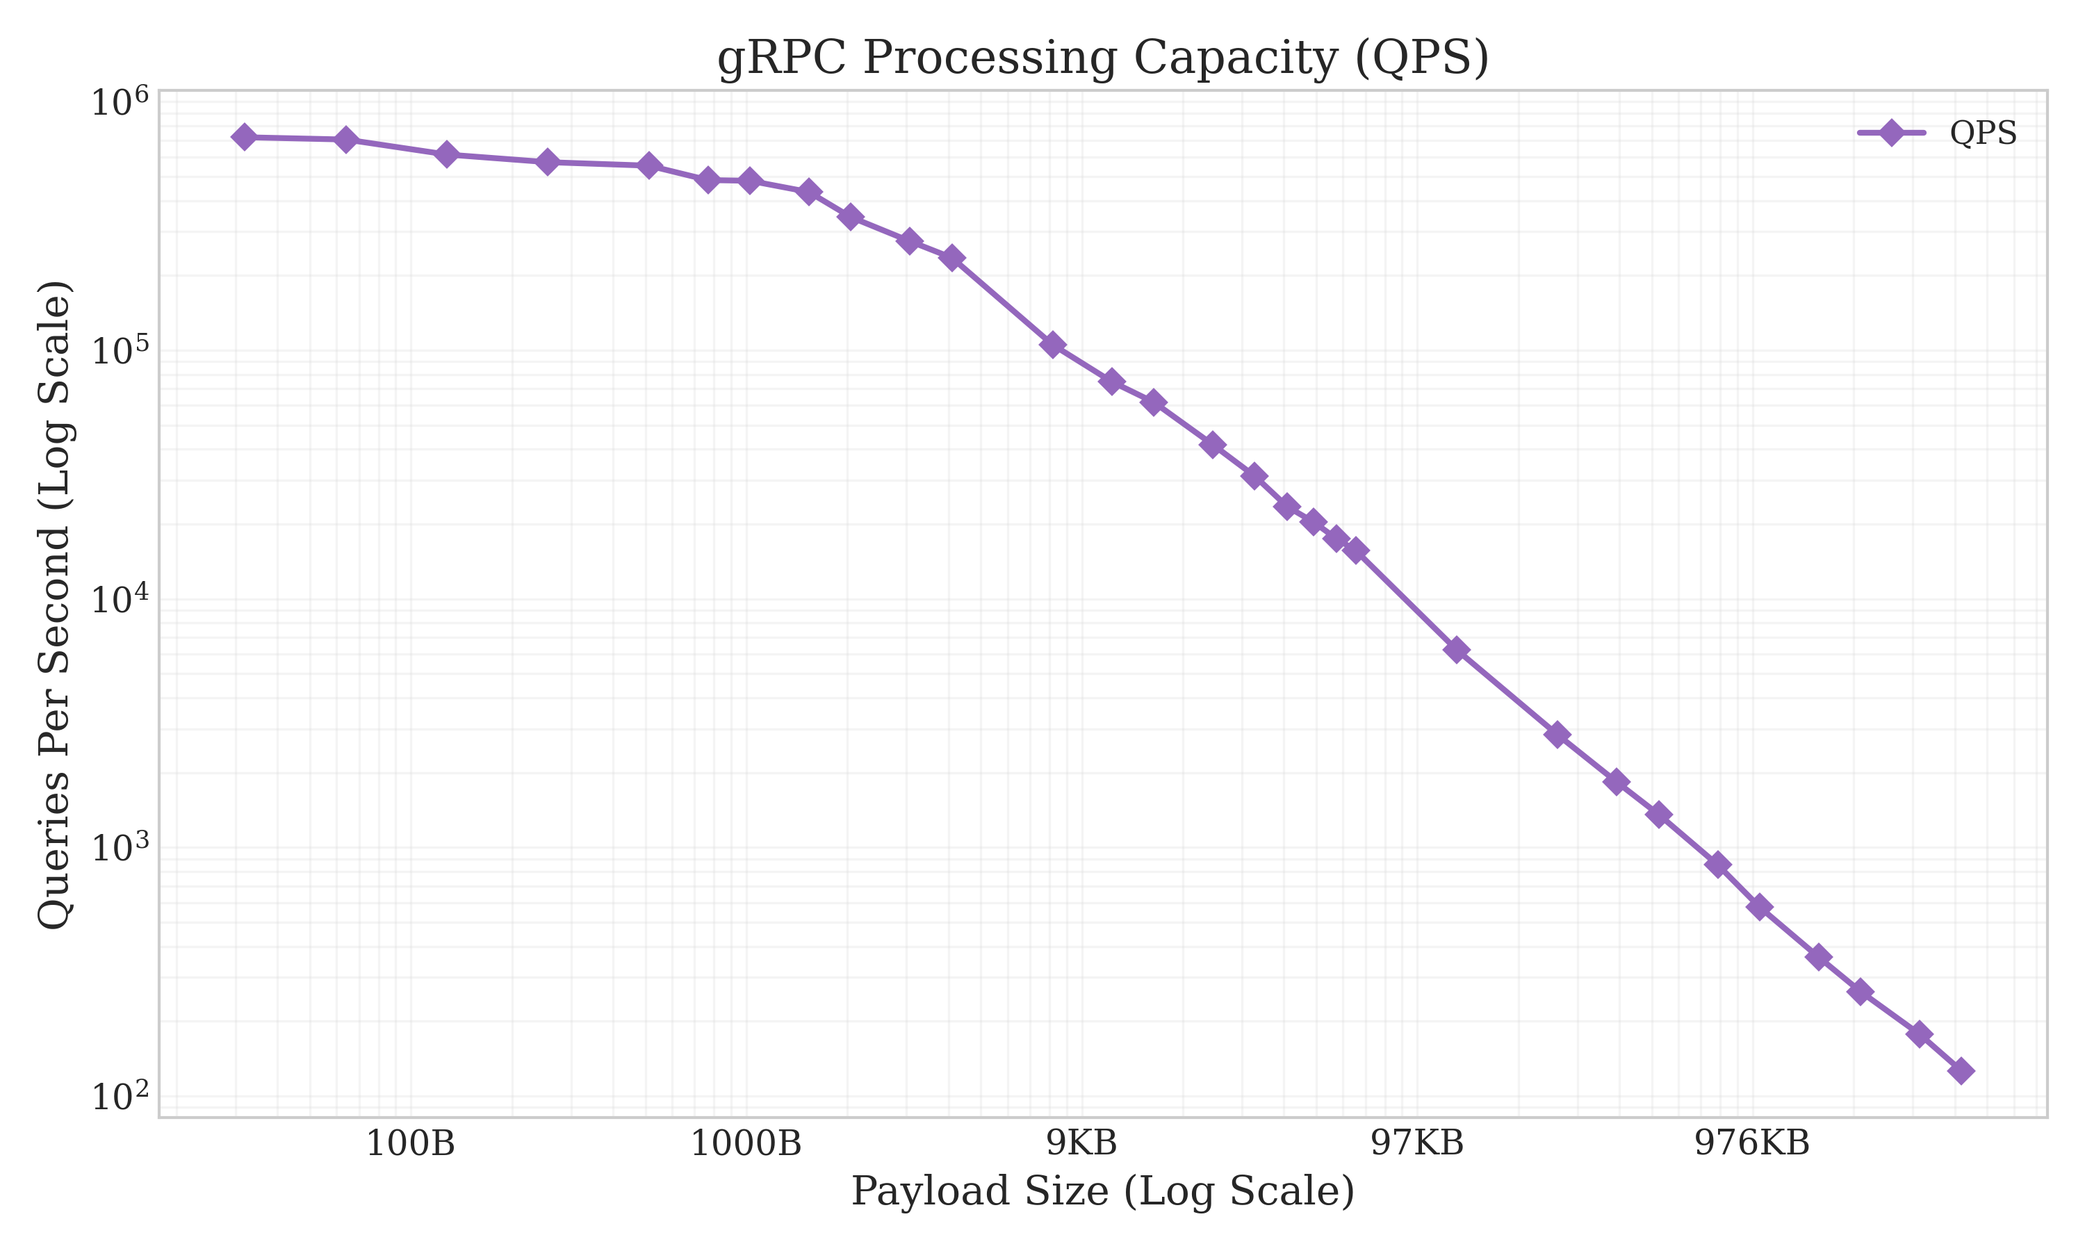
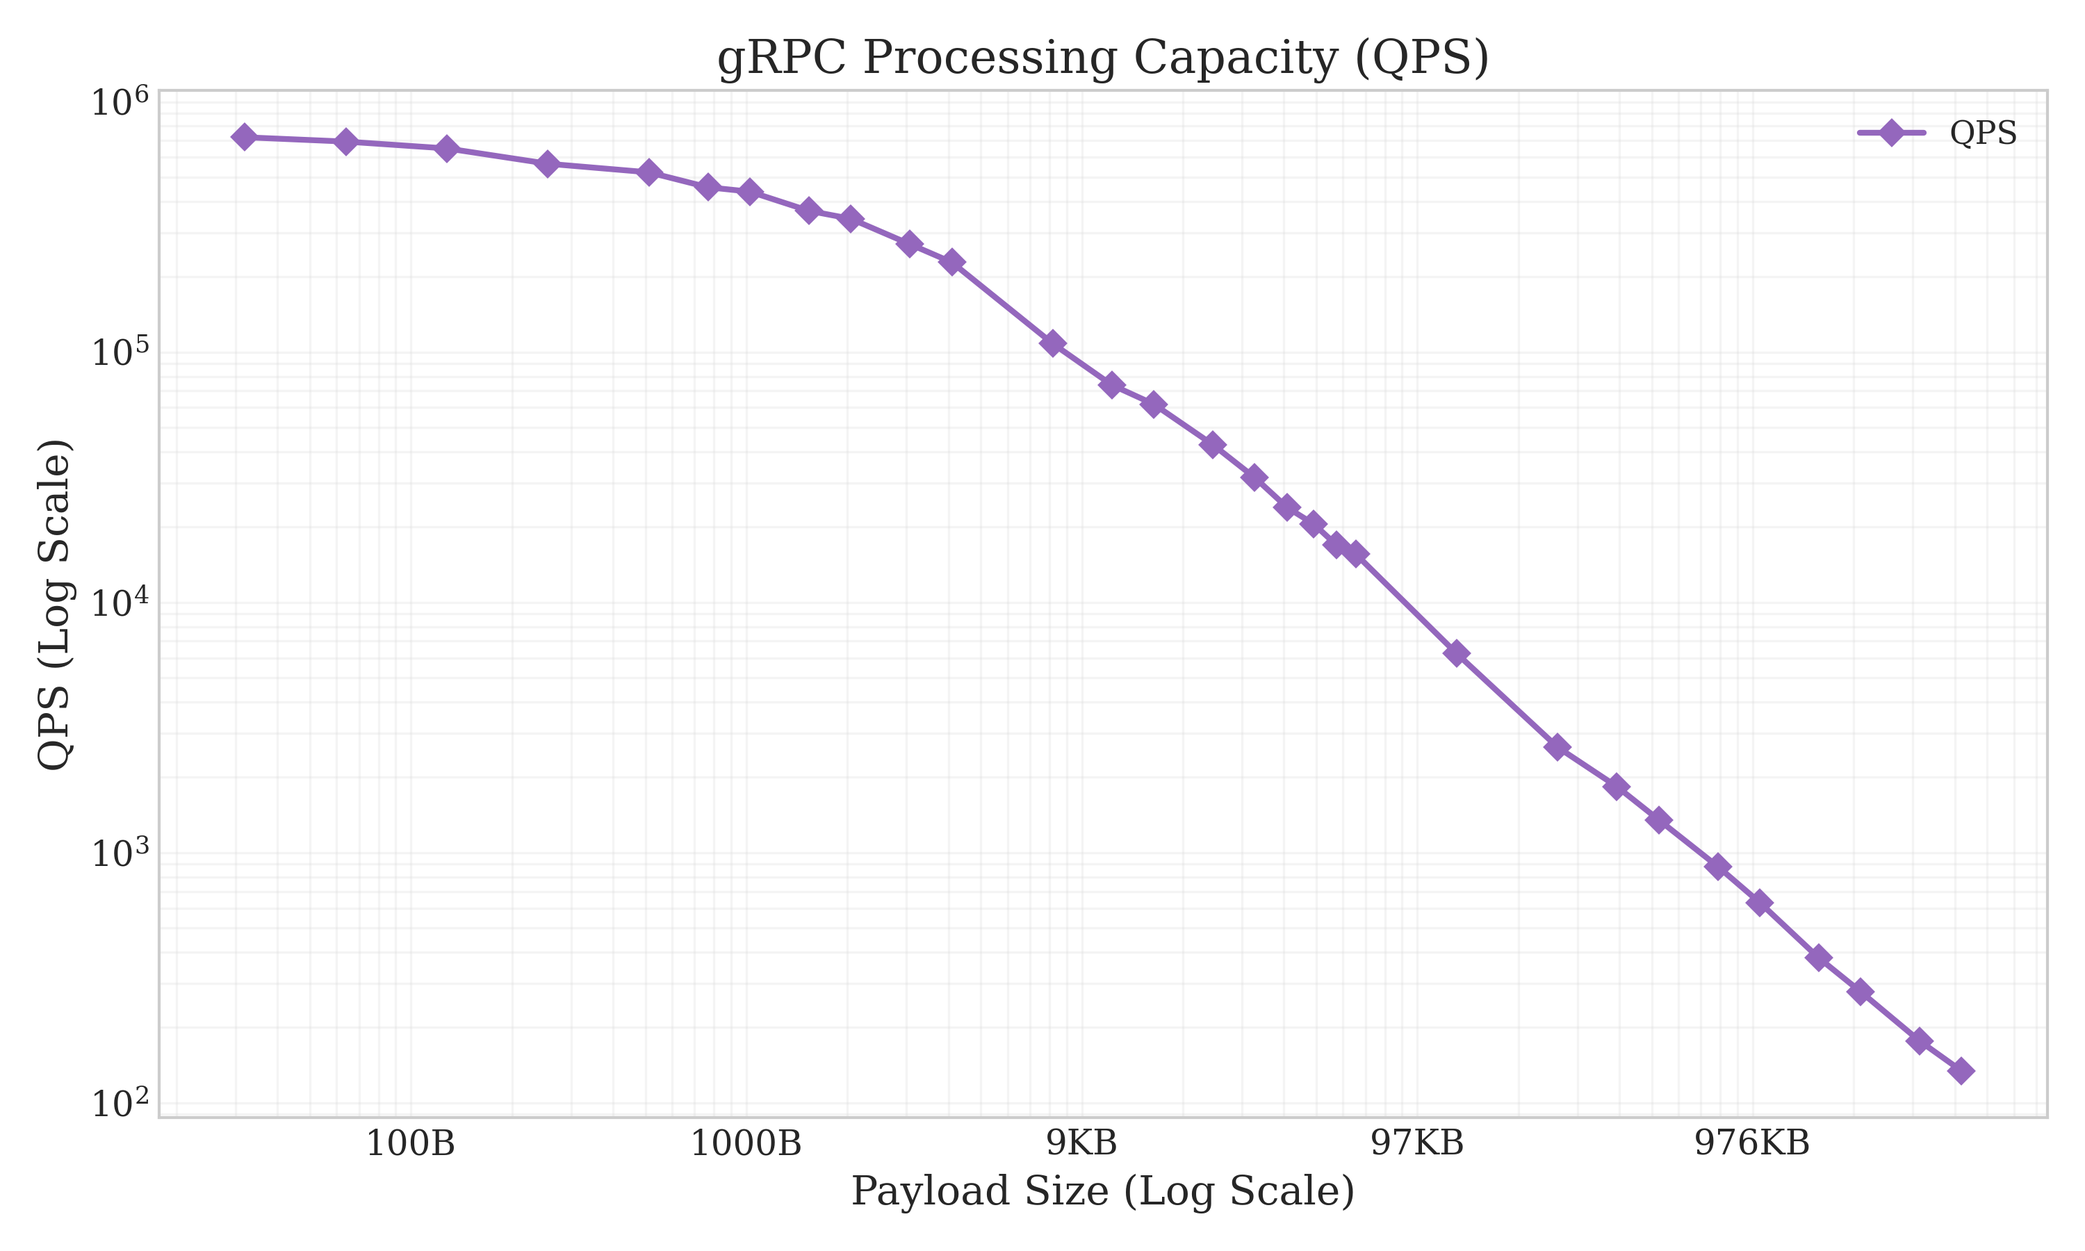
完成最终的测试，同时撰写了md文件

diff --git a/Stream 测试方案&实验结果.md b/Stream 测试方案&实验结果.md
@@ -1,0 +1,251 @@
+### 实验背景
+分布式文件系统中，**Stream RPC** 扮演着不可替代的角色，主要用于以下场景：
+
++ **大规模元数据扫描 (Metadata Scanning)**
+    - 场景: 用户执行 ls -R (递归列出目录) 或数据库进行 Table Scan。
+    - 原因: 如果一个目录有 100 万个文件，使用 Unary RPC（一问一答）需要 100 万次 RTT（往返时延），效率极低。使用 Server Streaming，客户端发一个请求，服务端源源不断地吐出 DirEntry，几乎填满带宽，能够极大降低延迟。
+    - LeoFS 映射: 你的底层 TiKV 在进行 Coprocessor 范围查询时，本质上也是流式返回数据。
++ **Watch 机制 / 事件通知**
+    - 场景: Kubernetes 监听配置变化，或者客户端通过 inotify 监听文件改动。
+    - 原因: 这是一个长连接流。客户端发起 Watch(path)，连接保持打开，服务端一有变更就推送事件。这是典型的 Server Streaming。
++ **日志复制与快照传输 (Log Replication & Snapshots)**
+    - 场景: Raft 共识协议中的日志同步，或者节点加入时的全量快照传输。
+    - 原因: 快照通常很大（GB级别），必须通过流式传输分块发送，防止内存溢出并支持断点续传。
++ **大文件读写 (Client/Bi-directional Streaming)**
+    - 场景: 客户端写入一个 1GB 的文件。
+    - 原因: 客户端不会一次性把 1GB 塞进内存，而是通过 Client Streaming 不断发送 64KB/4MB 的 Chunk，服务端随收随写。虽然 LeoFS 数据层用了 RDMA，但如果客户端不支持 RDMA（如普通 TCP 客户端），这层 gRPC Stream 就是数据通道的命脉。
+
+### 测量指标&原因
+一共选择四个指标进行测试：**首字节延迟、吞吐量、消息间延迟、抖动**。
+
+#### TTFB： Time To First Byte (首字节延迟):
+在 DFS 中对应 "Latency to first read"。用户不在乎你吞吐量有 100GB/s，只在乎打开视频时是不是立即开始播放。TTFB 直接衡量了元数据寻址和磁盘 Seek 的耗时。
+
+#### 吞吐量&QPS
+吞吐量是衡量在单位时间内传输了多少数据或消息。
+
++ **QPS (Queries Per Second)：** 每秒接收的消息数。
++ **MB/s (Megabytes Per Second)：** 每秒接收的数据量（兆字节）。
+
+**注意：** 这里的 QPS 计算基于总时长，反映了整个流式过程的 **平均效率**。
+
+#### Inter-Message Latency (消息间延迟)
+由谁决定: 这反映了服务端处理逻辑的稳定性。在 Rust 中，如果你的 Tokio 线程因为 CPU 密集型任务（如 Protobuf 序列化大对象）阻塞了，或者 TiKV 发生了 RocksDB Compaction 导致的抖动，这个指标会瞬间飙升。
+
+#### Jitter (抖动)
+HPC 痛点: 在高性能计算（AI 训练）中，所有 GPU 需要同步 barrier。如果数据流抖动大，快的 GPU 就要等慢的，导致整个集群算力浪费。证明 LeoFS 的低抖动是极大的亮点。
+
+### 实现方式
+#### 首字节延迟
+```rust
+let ttfb_start = Instant::now();
+let first_msg = stream.next().await;
+let ttfb = ttfb_start.elapsed();
+```
+
+计算的是第一个
+
+#### 吞吐量&QPS
+$ \text{QPS} = \frac{\text{接收到的消息总数}}{\text{总耗时（秒）}} $
+
+$ \text{MB/s} = \frac{\text{传输的总字节数} / (1024 \times 1024)}{\text{总耗时（秒）}} $
+
+#### 消息间延迟
+这是衡量数据流的 **平滑性** 和 **服务器出包速率** 的关键指标。
+
+```rust
+let now = Instant::now();
+let latency = now.duration_since(last_msg_time); // 计算与上一条消息之间的时间差
+inter_msg_latencies.push(latency); // 存储每个时间差
+last_msg_time = now;
+```
+
+##### 消息间最大延迟
+$ Interval_1 = Time(Msg_2) - Time(Msg_1)
+ $
+
+$ undefined $
+
+$ ...
+ $
+
+$ Interval_N = Time(Msg_{N+1}) - Time(Msg_N) $
+
+然后选择其中$ Interval_i $中最大的一个作为消息间最大延迟。
+
+##### 消息间平均延迟
+> 显而易见，求平均即可。
+>
+
+##### 抖动
+> 计算消息延迟之间的标准差。
+>
+
+抖动衡量了消息间延迟的 **稳定性**，即数据包到达时间是否一致。
+
++ **<font style="color:#DF2A3F;">计算标准差 (Jitter):</font>**<font style="color:#DF2A3F;"> 代码使用了标准的统计学方法计算 </font>**<font style="color:#DF2A3F;">标准差 (Standard Deviation)</font>**：
+    1. 计算所有消息间延迟与平均延迟之间的 **差值**。
+    2. 计算这些差值的 **平方** (variance / 方差)。
+    3. 计算方差的 **平方根** (std_dev / 标准差)。
+
+```rust
+// ... 中间变量略 ...
+let variance: f64 = inter_msg_latencies.iter()
+    .map(|d| {
+        let diff = d.as_micros() as f64 - mean_micros;
+        diff * diff
+    })
+    .sum::<f64>() / count as f64;
+
+let std_dev_micros = variance.sqrt(); // Jitter
+```
+
+### 实验结果
+#### 第一次实验数据分析
+| <font style="color:black;">Payload_Bytes</font> | <font style="color:black;">Msg_Count</font> | <font style="color:black;">Total_Time_Sec</font> | <font style="color:black;">TTFB_Micros</font> | <font style="color:black;">QPS</font> | <font style="color:black;">MBPS</font> | <font style="color:black;">Avg_Lat_Micros</font> | <font style="color:black;">Jitter_Micros</font> | <font style="color:black;">Max_Lat_Micros</font> |
+| :---: | :---: | :---: | :---: | :---: | :---: | :---: | :---: | :---: |
+| <font style="color:black;">128</font> | <font style="color:black;">20000</font> | <font style="color:black;">0.044594</font> | <font style="color:black;">416</font> | <font style="color:black;">448487.5</font> | <font style="color:black;">59.21</font> | <font style="color:black;">2</font> | <font style="color:black;">25</font> | <font style="color:black;">559</font> |
+| <font style="color:black;">512</font> | <font style="color:black;">20000</font> | <font style="color:black;">0.048555</font> | <font style="color:black;">403</font> | <font style="color:black;">411906</font> | <font style="color:black;">205.23</font> | <font style="color:black;">1</font> | <font style="color:black;">21</font> | <font style="color:black;">1489</font> |
+| <font style="color:black;">1024</font> | <font style="color:black;">20000</font> | <font style="color:black;">0.075794</font> | <font style="color:black;">316</font> | <font style="color:black;">263872.3</font> | <font style="color:black;">260.32</font> | <font style="color:black;">3</font> | <font style="color:black;">23</font> | <font style="color:black;">1174</font> |
+| <font style="color:black;">4096</font> | <font style="color:black;">5000</font> | <font style="color:black;">0.055196</font> | <font style="color:black;">1738</font> | <font style="color:black;">90585.97</font> | <font style="color:black;">354.7</font> | <font style="color:black;">10</font> | <font style="color:black;">84</font> | <font style="color:black;">5223</font> |
+| <font style="color:black;">16384</font> | <font style="color:black;">5000</font> | <font style="color:black;">0.174198</font> | <font style="color:black;">693</font> | <font style="color:black;">28702.91</font> | <font style="color:black;">448.75</font> | <font style="color:black;">34</font> | <font style="color:black;">62</font> | <font style="color:black;">1053</font> |
+| <font style="color:black;">65536</font> | <font style="color:black;">1000</font> | <font style="color:black;">0.123159</font> | <font style="color:black;">2161</font> | <font style="color:black;">8119.59</font> | <font style="color:black;">507.54</font> | <font style="color:black;">120</font> | <font style="color:black;">136</font> | <font style="color:black;">3220</font> |
+| <font style="color:black;">262144</font> | <font style="color:black;">1000</font> | <font style="color:black;">0.492621</font> | <font style="color:black;">44551</font> | <font style="color:black;">2029.96</font> | <font style="color:black;">507.51</font> | <font style="color:black;">447</font> | <font style="color:black;">911</font> | <font style="color:black;">28937</font> |
+| <font style="color:black;">524288</font> | <font style="color:black;">1000</font> | <font style="color:black;">0.827777</font> | <font style="color:black;">68347</font> | <font style="color:black;">1208.05</font> | <font style="color:black;">604.04</font> | <font style="color:black;">758</font> | <font style="color:black;">1289</font> | <font style="color:black;">41375</font> |
+| <font style="color:black;">1048576</font> | <font style="color:black;">1000</font> | <font style="color:black;">1.817468</font> | <font style="color:black;">89514</font> | <font style="color:black;">550.22</font> | <font style="color:black;">550.22</font> | <font style="color:black;">1727</font> | <font style="color:black;">2684</font> | <font style="color:black;">85762</font> |
+
+
+<font style="color:black;">上述实验数据中，未采用控制变量法的原因如下：</font>
+
++ 小包 (128B - 1KB): 测的是 CPU 和 PPS (Packets Per Second)
+    - 处理一个小包极快（你的数据里只需 2微秒）。
+    - 如果是 1000 次循环，总耗时可能只有几毫秒。在这个尺度下，操作系统调度抖动（OS Noise）、CPU 变频等“噪音”占比极大。
+    - 必须用巨大的 msg_count (20,000+) 来拉长测试时间，通过“大数定律”平滑掉噪音，得到准确的平均值。
++ 大包 (64KB - 1MB): 测的是 带宽 和 内存拷贝 (Bandwidth & Memcpy)
+    - 处理一个大包很慢（你的数据里需要 1727微秒）。
+    - 单次操作已经足够“重”，噪音影响较小。
+    - 1000 次采样对于统计学上的正态分布分析（求均值、方差）已经完全足够（通常 N > 30 就有统计意义）。
+
+#### 第二次实验数据分析
+**图表规划策略**
+
+1. **图 1：吞吐量瓶颈分析 (The Throughput Wall)**
++ 目的：展示 gRPC 在基于内核 TCP 协议栈时，无论 Payload 多大，带宽都卡在 ~600MB/s (约 5Gbps) 左右。
++ X轴：Payload Size (对数坐标 Log Scale，因为横跨 32B 到 4MB)。
++ Y轴：Throughput (MB/s)。
+
+核心结论：证明软件和协议栈是瓶颈，无法跑满 200Gbps RDMA 硬件，论证 LeoFS 引入 RDMA/Bypass Kernel 的必要性。
+
+2. **图 2：延迟与抖动分析 (Latency & Jitter Stability)**
++ 目的：展示在大包场景下，抖动（Jitter）如何恶化。
++ X轴：Payload Size (Log Scale)。
++ Y轴：Time (µs) (Log Scale)。
+
+内容：画两条线，一条是 Avg_Lat，一条是 Jitter。
+
+核心结论：在 4MB 时，抖动（~7ms）甚至超过了平均延迟（~6ms）。论证 gRPC 不适合对稳定性要求极高的 HPC/AI 训练场景。
+
+3. **图 3：QPS 衰减分析 (System Overhead)**
++ 目的：展示小 I/O 的高并发能力 vs 大 I/O 的拷贝开销。
++ X轴：Payload Size (Log Scale)。
++ Y轴：QPS (Log Scale)。
+
+核心结论：QPS 呈幂律下降，说明小包受限于 CPU/PPS，大包受限于带宽/拷贝。
+
+**图如下**
+
+> 暂时略去。
+>
+
+#### 实验方案改进
+**解决步骤1：**
+
++ CPU 抢占 (Context Switching)：如果别人的程序突然占用 CPU，操作系统会暂停你的程序，导致你的 Latency 出现巨大的抖动（Jitter）。
++ 缓存污染 (Cache Pollution)：别人的程序会把 CPU L1/L2/L3 缓存里的数据冲掉，导致你的代码必须去读内存，吞吐量骤降。
++ 内存带宽争抢：如果别人在疯狂进行 memcpy，你的内存读写速度会变慢。
+
+```rust
+cargo build --release --bin server
+cargo build --release --bin client
+
+
+taskset -c 10 ./target/release/server
+taskset -c 11 ./target/release/client
+```
+
+**解决步骤2：**
+
++ 预热 (Warm-up)：正式测试前先跑一跑，把连接建好，缓存填满。
+
+> main 函数开头增加了一次跑 100 条消息的测试。这确保了后续正式测试时，TCP 连接已经是热的，且 Rust 的运行时（Tokio Runtime）已经分配好了线程池。
+>
+
++ 多轮择优 (Best of N / Median)：针对每个 Payload 大小，跑 3~5 次，去掉最差的（被干扰的），取中位数或最大吞吐量。
+
+### 实验结论分析
+#### 吞吐量
+`Payload/AvgLatency≈Throughput`
+
+![](https://cdn.nlark.com/yuque/0/2025/png/54083526/1763810997208-4cbd8601-2c4d-4dfe-aed8-9aa6ad3d6513.png)
+
+“峰值性能（Peak Performance）” 与 “大块 I/O 稳定性能（Sustained Large I/O Performance）” 是两个完全不同的概念。
+
+峰值出现在 <font style="color:#DF2A3F;">16KB - 64KB</font> 这个区间，现代 CPU 的 L2 缓存通常在 256KB 到 1MB 之间。当你发送 64KB 的数据时，这块数据完全装在 CPU 的 L2 甚至 L1 缓存里。看横坐标的最右侧，4MB 的位置，掉到了 500 MB/s。4MB 的数据太大了，L2 缓存根本装不下，甚至 L3 缓存都被挤爆了。CPU 必须去“主内存（DRAM）”里搬运数据。
+
+`用户态对象 -> Protobuf 序列化 -> 内核 Socket Buffer -> 网卡 DMA`。这中间涉及多次内存拷贝。当数据量极大时，CPU 的主要时间都花在等待内存拷贝完成上。**具体的过程如下：**
+
+:::tips
+**[序列化]**
+
+路径：Rust Struct (Heap) -> Serialized Buffer (User Space)  
+原因：数据格式转换
+
+Rust 代码中，数据可能分散在堆内存的各个角落。例如 HelloRequest 结构体，它的字段 name 可能指向堆的一个位置，data 指向另一个位置。这些数据在物理内存中是不连续的。然而，网络发送需要的是一段连续的、符合协议规范的二进制流。Protobuf 库（prost）必须开辟一块新的连续内存缓冲区，把 Tag、Length 写入头部，然后把你的 4MB 真实数据 memcpy 到这块缓冲区的后面。因此，CPU 必须遍历这 4MB 数据，把它搬运到新的位置。
+
+**[系统调用]**
+
+路径：Serialized Buffer (User Space) -> Socket Buffer (Kernel Space)  
+原因：安全隔离 & TCP 协议特性
+
+序列化好之后，Rust 调用 TcpStream::write()，底层触发 sendto 系统调用。操作系统不信任用户程序。如果内核直接使用你用户态的指针，万一你在网卡发送的过程中修改了这块内存怎么办？万一你把内存释放了怎么办？内核必须把数据拷贝到它自己管理的“安全区域”（Kernel Space）。TCP 是可靠传输协议。数据发出去后，不能立刻丢弃，必须保留副本。如果接收端没回复 ACK，发送端必须重传。用户态的程序发完数据可能就把 buffer 销毁了，所以内核必须在 Socket Buffer (SKB, Socket Buffer) 中保留一份数据副本，直到收到 ACK 为止。因此，CPU 触发上下文切换（Context Switch），进入内核态，执行 copy_from_user()，将 4MB 数据搬运到内核的 sk_buff 链表中。所以，会存在严重的 CPU 消耗 + CPU 缓存污染。4MB 的拷贝操作会把 L3 缓存里原有的有用数据全部冲掉，导致后续代码运行变慢。
+
+:::
+
+#### 平均延迟、抖动、首字节延迟、首消息延迟、长尾延迟
+![](https://cdn.nlark.com/yuque/0/2025/png/54083526/1763889370546-4af7e2b4-61a9-4ea3-a11b-c8503838f9ad.png)
+
+1. TTFB首字节延迟
+
+基本上保持不变，这得益于gRPC优秀的底层框架，无论消息荷载多大，都基本维持在1ms左右。
+
+2. Avg_Latency 平均延迟
+3. Jitter 抖动
+
+抖动和平均延迟在荷载较小的时候差距较大，这是因为小包的传输时间容易收到外界因素的干扰，然而，随着PayLoad的上升，两者的差距逐渐变小，个人猜测是因为操作系统的抖动对于大包传输的印象较小
+
+4. Max_Latency 最大延迟
+5. Fisrt_Msg_Latency 首消息延迟
+
+接近4MB时：TCP 慢启动 (Slow Start)：连接刚建立时，TCP 拥塞窗口（CWND）极小，无法一次性发送 4MB 数据，必须经过多次 RTT 往返来“试探”网络带宽，显而易见。
+
+#### QPS
+![](https://cdn.nlark.com/yuque/0/2025/png/54083526/1763889416477-63f5015e-2ab3-4255-9416-c9d93a3fcf2f.png)
+
+【区间：32B ~ 1KB】
+
++ 走势：曲线略微平缓，没有完全遵循严格的线性下降，QPS 维持在极高水平（约 70万）。
++ 物理含义：CPU 计算密集型瓶颈。
+    - 在这个区间，包非常小，内存拷贝的开销可以忽略不计。
+    - 主要耗时在于：系统调用（System Calls）、Tokio 事件循环调度、Protobuf 头部解析。
+    - 这些开销是固定成本（Fixed Cost），不随 Payload 大小显著变化。
+    - 评价：70万 QPS 证明了 Rust/Tokio 运行时极其高效，足以应对 LeoFS 的元数据（Metadata）高并发访问需求。
+
+【区间：> 4KB】
+
++ 走势：标准的线性下跌。Payload 每增加 10 倍，QPS 就下降 10 倍（例如 10KB 时约 5万，100KB 时约 5千）。
++ 物理含义：内存拷贝密集型瓶颈。
+    - 在这个区间，Payload 变大，数据拷贝（Memcpy）的时间成为主导，远远超过了系统调用的固定开销。
+    - 处理一个请求的时间 $ T \approx \frac{Size}{Bandwidth} $
+    - 因此，$ QPS = \frac{1}{T} \propto \frac{1}{Size} $
++ 评价：QPS 的迅速衰减说明 gRPC 在处理大块数据时效率极低。例如在 4MB 时，QPS 仅剩 ~130。这意味着如果在 LeoFS 的数据路径使用 gRPC，系统的 IOPS（每秒读写次数）将被彻底锁死。
+
